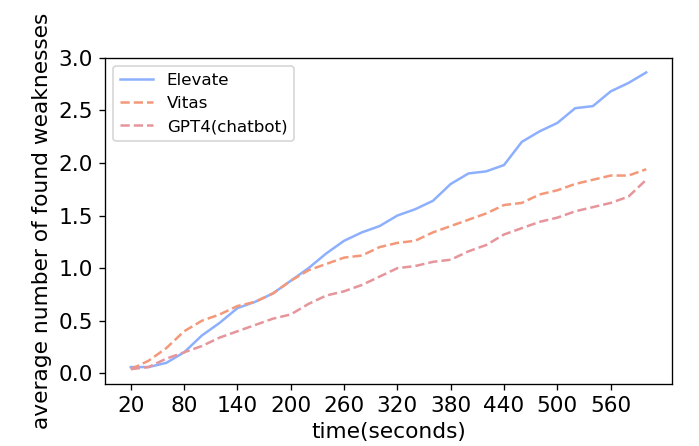
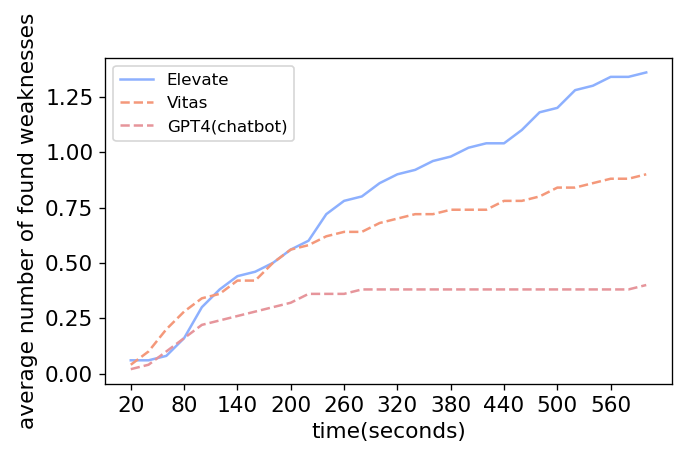
change weakness to time figure

diff --git a/site/weaknesses/index.html b/site/weaknesses/index.html
@@ -110,7 +110,7 @@
 <p>The benchmark contains available and stable Alexa skills.
 However, they also suffer from problems including unexpected exit, privacy violation and unstoppable problems.
 While Elevate and baselines tested these skills, they recorded these problems.
-The number of weaknesses found by Elevate and baselines with time is shown below.</p>
+The number of unique weaknesses found by Elevate and baselines with time is shown below.</p>
 <p><img alt="路径" src="../figure/fse1_weakness_vs_time.png" /></p>
 <p>The number of weaknesses detected with time is proportional to the increase of the state space with interaction rounds.
 We notice that weaknesses found by Elevate are fewer than baselines in the first two minutes.

diff --git a/site/index.html b/site/index.html
@@ -254,5 +254,5 @@ python main.py
 
 <!--
 MkDocs version : 1.5.3
-Build Date UTC : 2024-12-01 06:33:54.700573+00:00
+Build Date UTC : 2024-12-01 14:44:38.896770+00:00
 -->

diff --git a/docs/weaknesses.md b/docs/weaknesses.md
@@ -4,7 +4,7 @@
 The benchmark contains available and stable Alexa skills.
 However, they also suffer from problems including unexpected exit, privacy violation and unstoppable problems.
 While Elevate and baselines tested these skills, they recorded these problems.
-The number of weaknesses found by Elevate and baselines with time is shown below.
+The number of unique weaknesses found by Elevate and baselines with time is shown below.
 
 ![路径](figure/fse1_weakness_vs_time.png)
 
